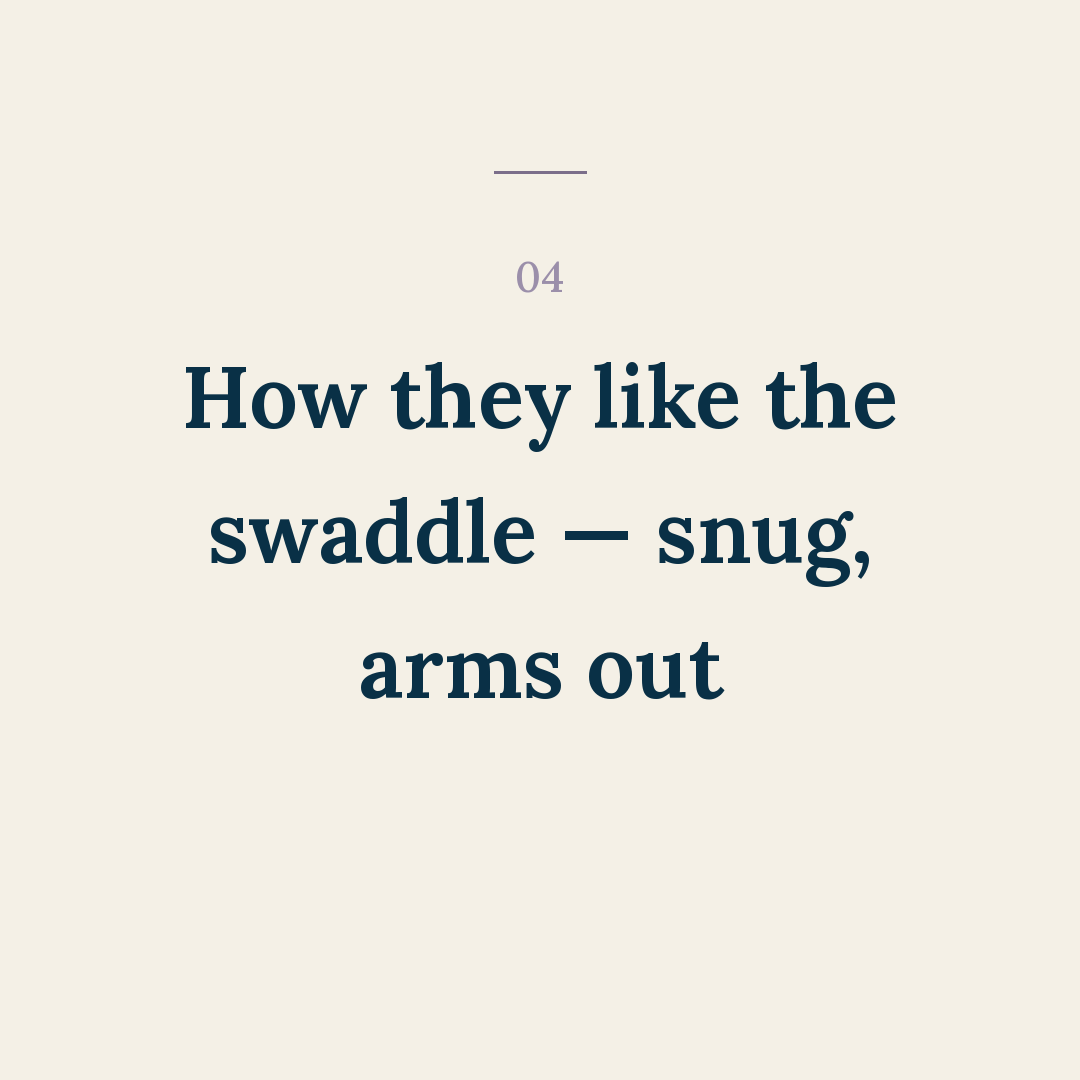
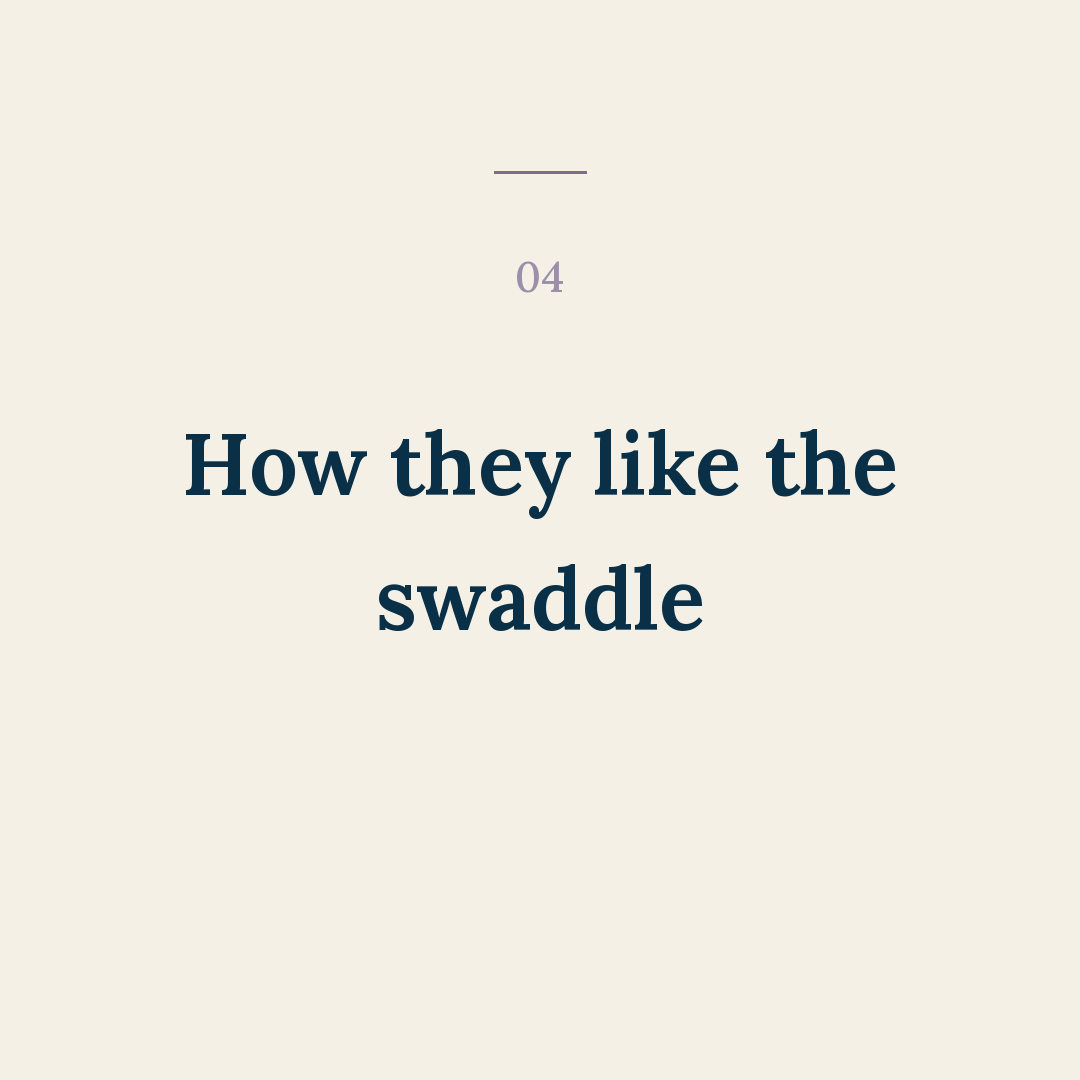
Add 47-preferences-you-know-by-heart (47 - Preferences You Know By Heart)

Changed region(s): [[0.1528, 0.3361, 0.825, 0.6722]]

diff --git a/posts/47-preferences-you-know-by-heart/slides.md b/posts/47-preferences-you-know-by-heart/slides.md
@@ -1,6 +1,7 @@
 # 47 - Preferences You Know By Heart
 
-Format: carousel · bg cream · lane Keepsake · CTA Save · hook #68 (new)
+Format: carousel · bg cream · lane Keepsake · CTA Follow · hook #68 (new)
+Revised 2026-08-09 from Ben's review workbook (post-review-2026-08-10.numbers).
 
 ## Cover
 The tiny newborn preferences you already know by heart…
@@ -9,10 +10,9 @@ The tiny newborn preferences you already know by heart…
 01  Which arm they settle into faster
 02  The exact swaying speed that works
 03  Which song gets the sigh
-04  How they like the swaddle — snug, arms out
-05  The one hold that ends the crying
+04  How they like the swaddle
 
-## Closer (save)
-Save this — you know them better than you think
+## Closer (follow)
+You know them better than you think. Follow for more reminders for this phase of life
 
-Rendered slide-1..slide-7 (weight 650, cover byline on).
+Rendered slide-1..slide-6 (weight 650, cover byline on).
